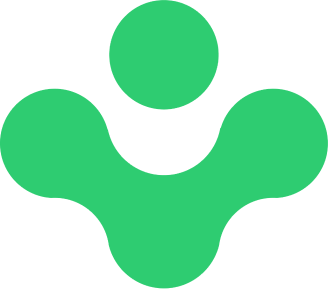
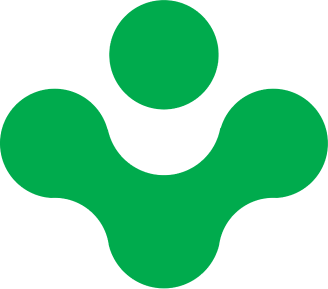
feat(intro&auth): improve style & text label

diff --git a/lib/components/custom_text.dart b/lib/components/custom_text.dart
@@ -1,0 +1,82 @@
+import 'package:flutter/material.dart';
+
+import '../core/constants/colors.dart';
+import '../core/constants/dimens.dart';
+
+class CustomText extends StatelessWidget {
+  final String data;
+  final double fontSize;
+  final FontWeight fontWeight;
+  final Color color;
+  final TextAlign? textAlign;
+
+  const CustomText.h1(
+    this.data, {
+    super.key,
+    this.fontSize = AppDimens.spacing32pt,
+    this.fontWeight = FontWeight.w700,
+    this.color = AppColors.black,
+    this.textAlign,
+  });
+  const CustomText.h2(
+    this.data, {
+    super.key,
+    this.fontSize = AppDimens.spacing24pt,
+    this.fontWeight = FontWeight.w600,
+    this.color = AppColors.black,
+    this.textAlign,
+  });
+  const CustomText.h3(
+    this.data, {
+    super.key,
+    this.fontSize = AppDimens.spacing20pt,
+    this.fontWeight = FontWeight.w600,
+    this.color = AppColors.black,
+    this.textAlign,
+  });
+  const CustomText.h4(
+    this.data, {
+    super.key,
+    this.fontSize = AppDimens.spacing18pt,
+    this.fontWeight = FontWeight.w500,
+    this.color = AppColors.black,
+    this.textAlign,
+  });
+  const CustomText.h5(
+    this.data, {
+    super.key,
+    this.fontSize = AppDimens.spacing16pt,
+    this.fontWeight = FontWeight.w500,
+    this.color = AppColors.black,
+    this.textAlign,
+  });
+  const CustomText.h6(
+    this.data, {
+    super.key,
+    this.fontSize = AppDimens.spacing14pt,
+    this.fontWeight = FontWeight.w400,
+    this.color = AppColors.black,
+    this.textAlign,
+  });
+  const CustomText.h7(
+    this.data, {
+    super.key,
+    this.fontSize = AppDimens.spacing12pt,
+    this.fontWeight = FontWeight.w400,
+    this.color = AppColors.black,
+    this.textAlign,
+  });
+
+  @override
+  Widget build(BuildContext context) {
+    return Text(
+      data,
+      textAlign: textAlign,
+      style: TextStyle(
+        fontSize: fontSize,
+        fontWeight: fontWeight,
+        color: color,
+      ),
+    );
+  }
+}

diff --git a/lib/features/introduction/pages/introduction_page.dart b/lib/features/introduction/pages/introduction_page.dart
@@ -18,20 +18,22 @@ class _IntroductionPageState extends State<IntroductionPage> {
   int currentIndex = 0;
   AssetGenImage image = Assets.images.rectangle;
   String text =
-      'Lorem ipsum dolor sit amet consectetur. Et viverra tristique sit euismod.';
+      'Selamat datang di Foodition, tempatnya makanan hemat dan istimewa untuk setiap selera!';
   String buttonTitle = 'Next';
 
   void nextTap(int index) {
     if (index == 0) {
       currentIndex++;
       image = Assets.images.rectangle;
-      text = 'Lorem ipsum dolor. Et viverra tristique sit euismod.';
+      text =
+          'Jelajahi kelezatan tanpa merusak anggaran Anda - Foodition, solusi hemat untuk lidah Anda!';
       buttonTitle = 'Next';
       setState(() {});
     } else if (index == 1) {
       currentIndex++;
       image = Assets.images.rectangle;
-      text = 'Lorem ipsum dolor sit amet. Et viverra tristique sit euismod.';
+      text =
+          'Nikmati kelezatan istimewa tanpa menguras dompet Anda, hanya di Foodition!';
       buttonTitle = 'Next';
       buttonTitle = 'Let\'s Start';
       setState(() {});
@@ -76,13 +78,9 @@ class _IntroductionPageState extends State<IntroductionPage> {
                         ),
                       ),
                       const SpaceHeight(AppDimens.spacing48pt),
-                      Text(
+                      CustomText.h5(
                         text,
                         textAlign: TextAlign.center,
-                        style: const TextStyle(
-                          fontSize: AppDimens.spacing18pt,
-                          fontWeight: FontWeight.w500,
-                        ),
                       ),
                       const SpaceHeight(AppDimens.spacing32pt),
                       Row(

diff --git a/lib/features/auth/presentation/pages/login_page.dart b/lib/features/auth/presentation/pages/login_page.dart
@@ -24,23 +24,10 @@ class LoginPage extends StatelessWidget {
             child: Assets.images.fooditionPrimary.image(),
           ),
           const SpaceHeight(AppDimens.spacing48pt),
-          const Text(
+          const CustomText.h1(
             'Login',
             textAlign: TextAlign.center,
-            style: TextStyle(
-              fontSize: AppDimens.spacing24pt,
-              fontWeight: FontWeight.w700,
-              color: AppColors.black,
-            ),
-          ),
-          const SpaceHeight(AppDimens.spacing16pt),
-          const Text(
-            'Enter your username and password to login',
-            textAlign: TextAlign.center,
-            style: TextStyle(
-              fontSize: AppDimens.spacing16pt,
-              color: AppColors.black,
-            ),
+            color: AppColors.primary,
           ),
           const SpaceHeight(AppDimens.spacing32pt),
           CustomTextField(
@@ -60,7 +47,7 @@ class LoginPage extends StatelessWidget {
             alignment: Alignment.centerRight,
             child: InkWell(
               onTap: () {},
-              child: const Text('Forgot Password?'),
+              child: const CustomText.h6('Forgot Password?'),
             ),
           ),
           const SpaceHeight(AppDimens.spacing20pt),

diff --git a/lib/features/introduction/pages/splash_page.dart b/lib/features/introduction/pages/splash_page.dart
@@ -28,21 +28,14 @@ class SplashPage extends StatelessWidget {
               child: Assets.images.fooditionPrimary.image(width: 164.0),
             ),
             const SpaceHeight(AppDimens.spacing48pt),
-            const Text(
+            const CustomText.h1(
               'Foodition',
-              style: TextStyle(
-                fontSize: AppDimens.spacing32pt,
-                fontWeight: FontWeight.w700,
-                color: AppColors.primary,
-              ),
+              color: AppColors.primary,
             ),
             const SpaceHeight(AppDimens.spacing16pt),
-            const Text(
+            const CustomText.h5(
               'Makanan hemat yang enak',
-              style: TextStyle(
-                fontSize: AppDimens.spacing16pt,
-                color: AppColors.primary,
-              ),
+              color: AppColors.primary,
             ),
           ],
         ),

diff --git a/lib/features/auth/presentation/pages/register_page.dart b/lib/features/auth/presentation/pages/register_page.dart
@@ -26,23 +26,9 @@ class RegisterPage extends StatelessWidget {
             child: Assets.images.fooditionPrimary.image(),
           ),
           const SpaceHeight(AppDimens.spacing48pt),
-          const Text(
+          const CustomText.h1(
             'Register',
             textAlign: TextAlign.center,
-            style: TextStyle(
-              fontSize: AppDimens.spacing24pt,
-              fontWeight: FontWeight.w700,
-              color: AppColors.black,
-            ),
-          ),
-          const SpaceHeight(AppDimens.spacing16pt),
-          const Text(
-            'Enter your details to register',
-            textAlign: TextAlign.center,
-            style: TextStyle(
-              fontSize: AppDimens.spacing16pt,
-              color: AppColors.black,
-            ),
           ),
           const SpaceHeight(AppDimens.spacing32pt),
           CustomTextField(

diff --git a/lib/core/constants/colors.dart b/lib/core/constants/colors.dart
@@ -1,8 +1,8 @@
 import 'package:flutter/material.dart';
 
 class AppColors {
-  /// primary = #2ECC71
-  static const Color primary = Color(0xff2ECC71);
+  /// primary = #1E9F55
+  static const Color primary = Color(0xff1E9F55);
 
   /// grey = #D5D7DF
   static const Color grey = Color(0xffD5D7DF);
@@ -21,4 +21,10 @@ class AppColors {
 
   /// red = #D34459
   static const Color red = Color(0xffD34459);
+
+  /// hint = #85988D
+  static const Color hint = Color(0xff85988D);
+
+  /// stroke = #E0E1E7
+  static const Color stroke = Color(0xffE0E1E7);
 }

diff --git a/lib/components/components.dart b/lib/components/components.dart
@@ -1,4 +1,5 @@
 export 'buttons.dart';
 export 'custom_dropdown.dart';
+export 'custom_text.dart';
 export 'custom_text_field.dart';
 export 'spaces.dart';
